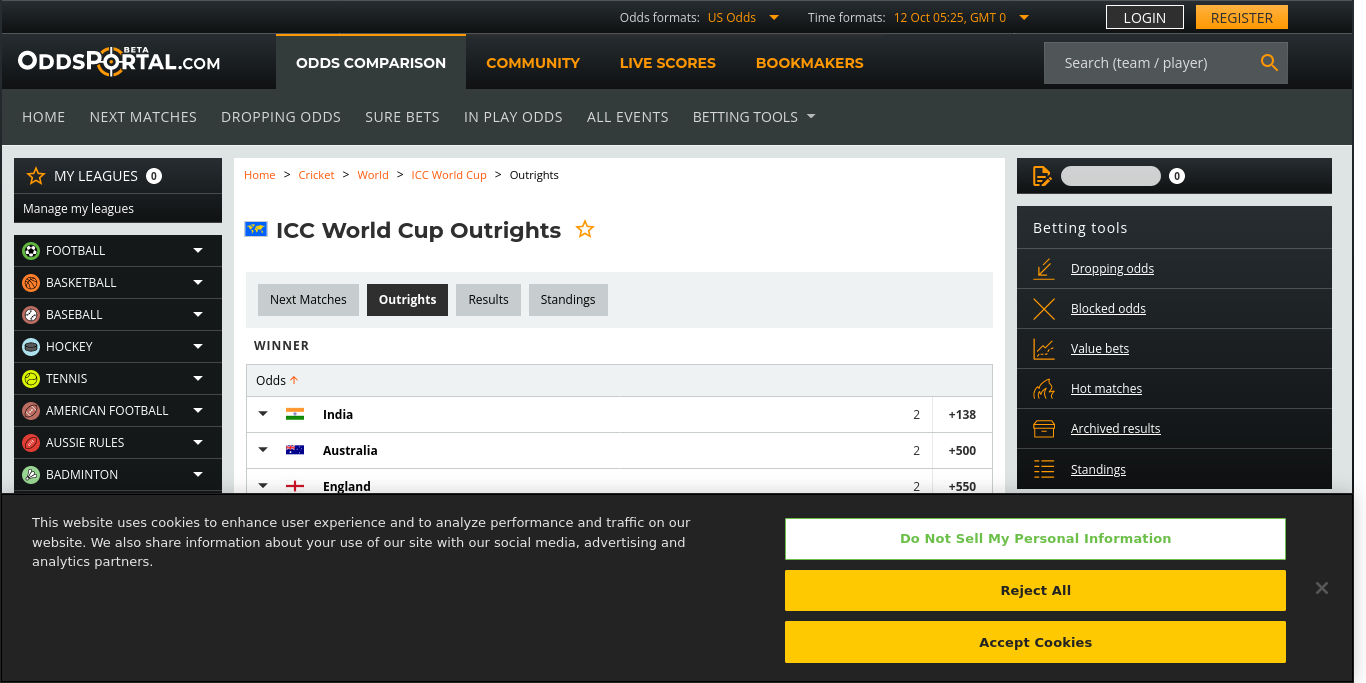
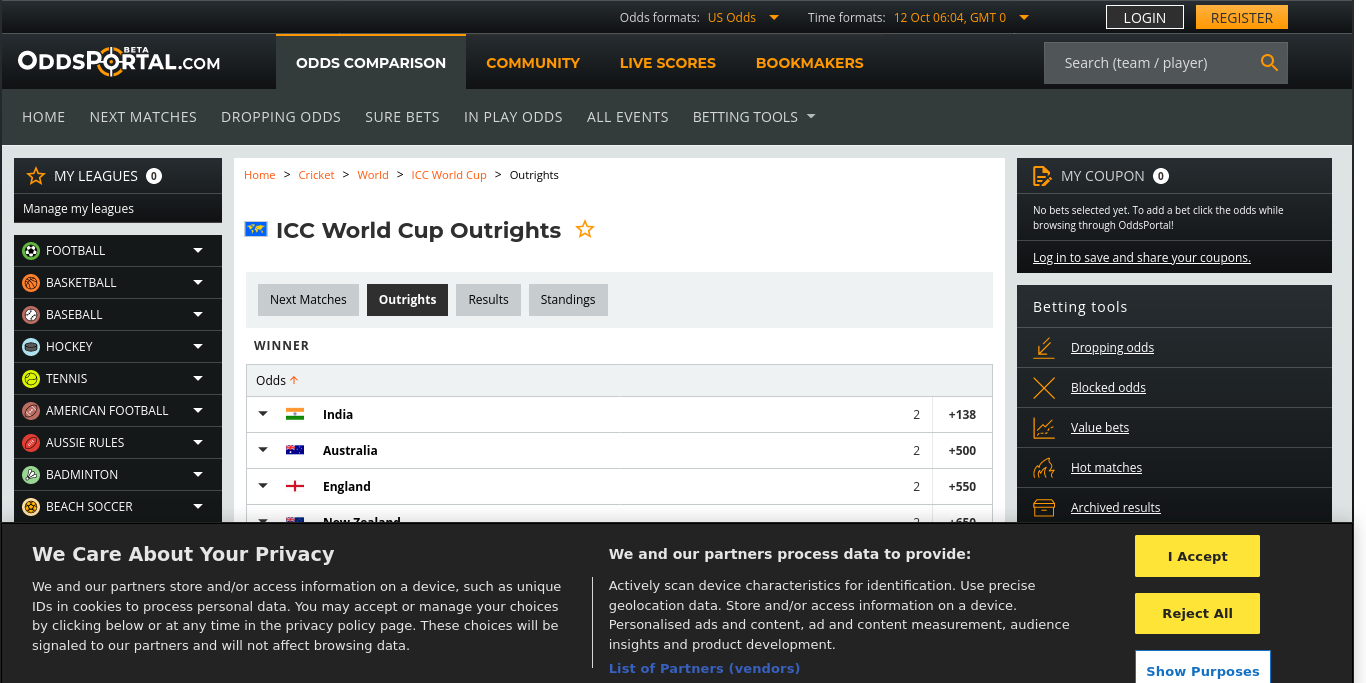
Update Data (Cron) Thu Oct 12 06:04:58 UTC 2023

Changed region(s): [[0.0, 0.6149, 1.0, 1.0], [0.7379, 0.246, 0.9839, 0.5842]]

diff --git a/src/nonview/data/TEAM1_ID_TO_TEAM2_ID_TO_ODDS_PAIR.js b/src/nonview/data/TEAM1_ID_TO_TEAM2_ID_TO_ODDS_PAIR.js
@@ -1,24 +1,24 @@
 // Auto Generated by workflows/update_team1_id_to_team2_id_to_odds_pair.py
-// www.oddsportal.com - 2023-10-12 10:55:52
+// www.oddsportal.com - 2023-10-12 11:34:58
 
 import { TEAM } from "../core/Team.js";
 
 export const TEAM1_ID_TO_TEAM2_ID_TO_ODDS_PAIR = {
   [TEAM.AUS.id]: {
-    [TEAM.ZAF.id]: [1.64, 2.23],
-    [TEAM.LKA.id]: [1.27, 3.69],
+    [TEAM.ZAF.id]: [1.65, 2.22],
+    [TEAM.LKA.id]: [1.28, 3.69],
   },
   [TEAM.NZL.id]: {
-    [TEAM.BGD.id]: [1.29, 3.54],
-    [TEAM.AFG.id]: [1.41, 2.81],
+    [TEAM.BGD.id]: [1.30, 3.52],
+    [TEAM.AFG.id]: [1.42, 2.85],
   },
   [TEAM.IND.id]: {
-    [TEAM.PAK.id]: [1.43, 2.75],
+    [TEAM.PAK.id]: [1.43, 2.77],
   },
   [TEAM.ENG.id]: {
-    [TEAM.AFG.id]: [1.10, 6.51],
+    [TEAM.AFG.id]: [1.10, 6.50],
   },
   [TEAM.ZAF.id]: {
-    [TEAM.NLD.id]: [1.06, 8.85],
+    [TEAM.NLD.id]: [1.06, 9.30],
   },
 };

diff --git a/src/nonview/constants/VERSION.js b/src/nonview/constants/VERSION.js
@@ -1,4 +1,4 @@
 // Auto-generated by javascript_version.py
-export const DATETIME_STR = "2023-10-12 10:55:52";
+export const DATETIME_STR = "2023-10-12 11:34:58";
 export const VERSION_DATETIME = new Date(DATETIME_STR);
 export const LAST_COMMIT_MESSAGE = "Updated 📊Data"

diff --git a/src/nonview/data/TEAM_ID_TO_P_WINNER.js b/src/nonview/data/TEAM_ID_TO_P_WINNER.js
@@ -1,5 +1,5 @@
 // Auto Generated by workflows/update_team_id_to_p_winner.py
-// www.oddsportal.com - 2023-10-12 10:55:32
+// www.oddsportal.com - 2023-10-12 11:34:38
 export const TEAM_ID_TO_P_WINNER = {
   IND: 0.370756, // 37%
   AUS: 0.147066, // 15%

diff --git a/src/nonview/data/ODI_ID_TO_WINNER.js b/src/nonview/data/ODI_ID_TO_WINNER.js
@@ -1,5 +1,5 @@
 // Auto Generated by workflows/update_odi_id_to_winner.py
-// www.cricbuzz.com - 2023-10-12 10:55:39
+// www.cricbuzz.com - 2023-10-12 11:34:45
 
 import { TEAM } from "../core/Team.js";
 
